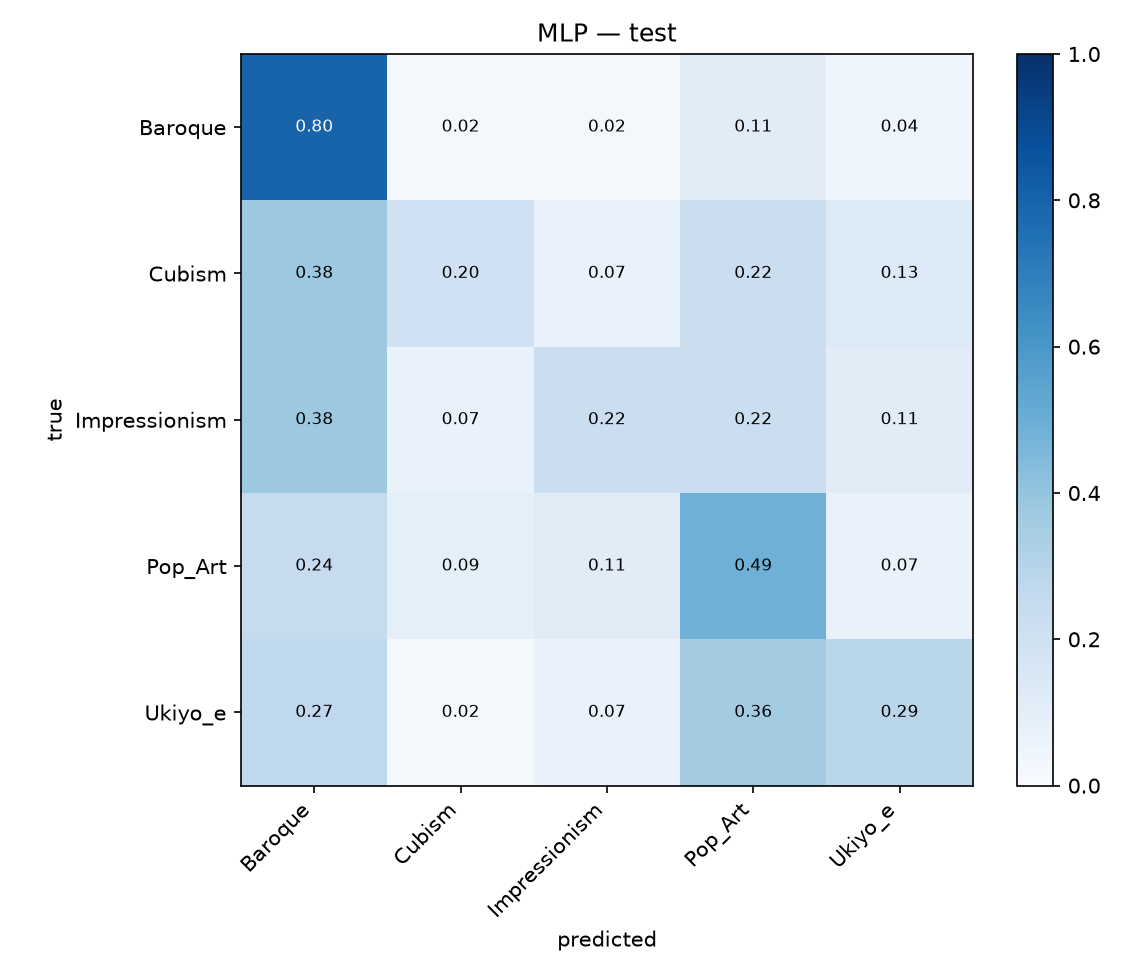
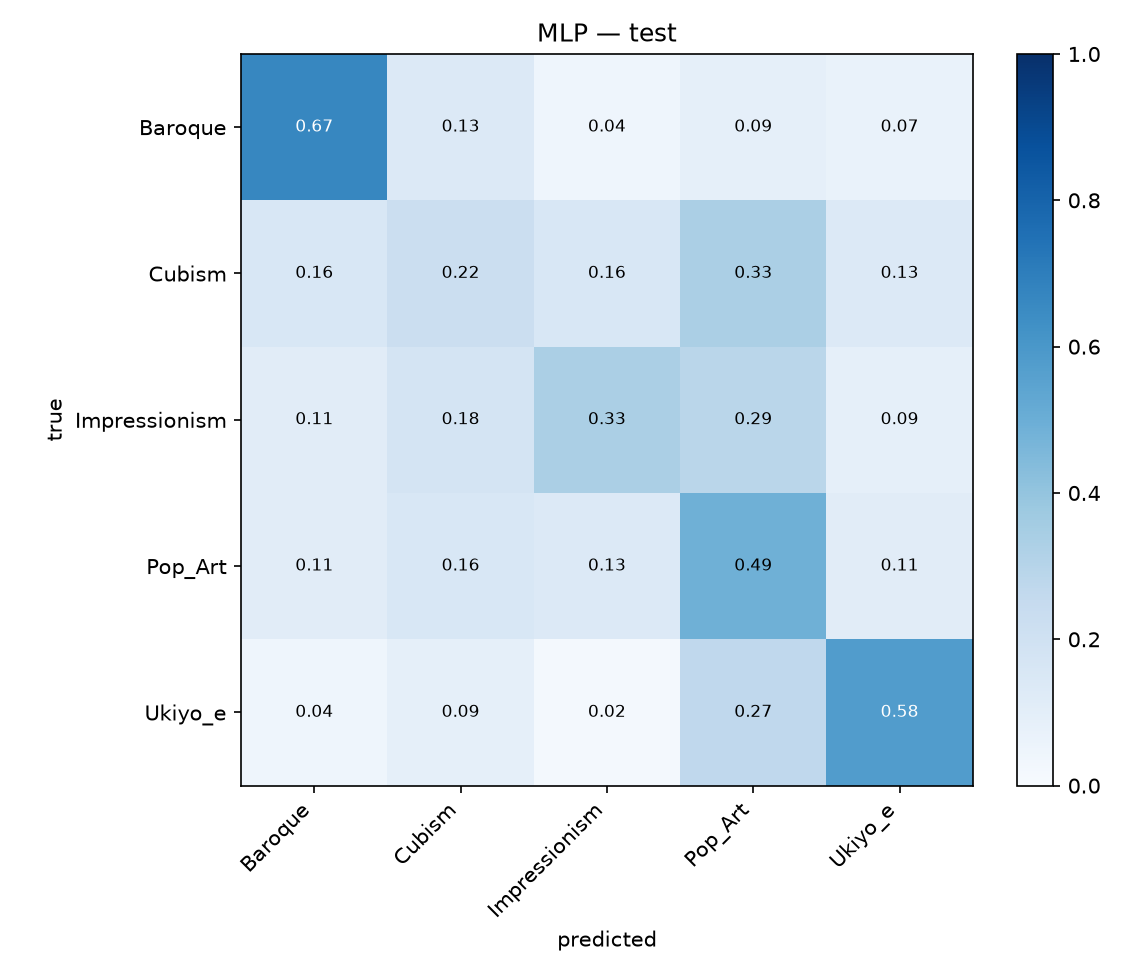
fix(mlp): standardise pixels on train stats and use diagnosed learning rate
Pixels were only scaled to [0,1] while the baseline features were standardised. Added standardise_from_train() in src/data.py: per-channel mean/std computed on training images only (mean RGB 0.551/0.503/0.443, std 0.268/0.258/0.255), applied identically to train/val/test in 02_mlp.py and 03_diagnose.py. No leakage into val/test.

Re-ran the diagnosis with standardised inputs: lr sweep best at 1e-4 (47% val); sigmoid gradient norm 0.65 vs ReLU 3.65; unregularised MLP overfits (train 99% / val 39%), dropout + weight decay cut the gap from 60 to 13 pts.

Final MLP now uses lr=1e-4 (chosen on validation, not test). Test accuracy: 36.9% raw -> 40.0% standardised -> 45.8% with tuned lr, vs 33.8% for the classical baseline.

diff --git a/scripts/02_mlp.py b/scripts/02_mlp.py
@@ -54,7 +54,8 @@ def main():
     timings: dict = {}
     with timer("mlp_train", timings):
         history, _ = fit(model, loaders["train"], loaders["val"], device,
-                         epochs=40, lr=1e-3, weight_decay=0.0, patience=8, log_grad=True)
+                         # lr=1e-4 chosen on the VALIDATION set by the sweep in 03_diagnose.py
+                         epochs=60, lr=1e-4, weight_decay=0.0, patience=10, log_grad=True)
 
     plot_curves(history, FIG_DIR / "mlp_curves.png")
     y_true, y_pred = predict(model, loaders["test"], device)
